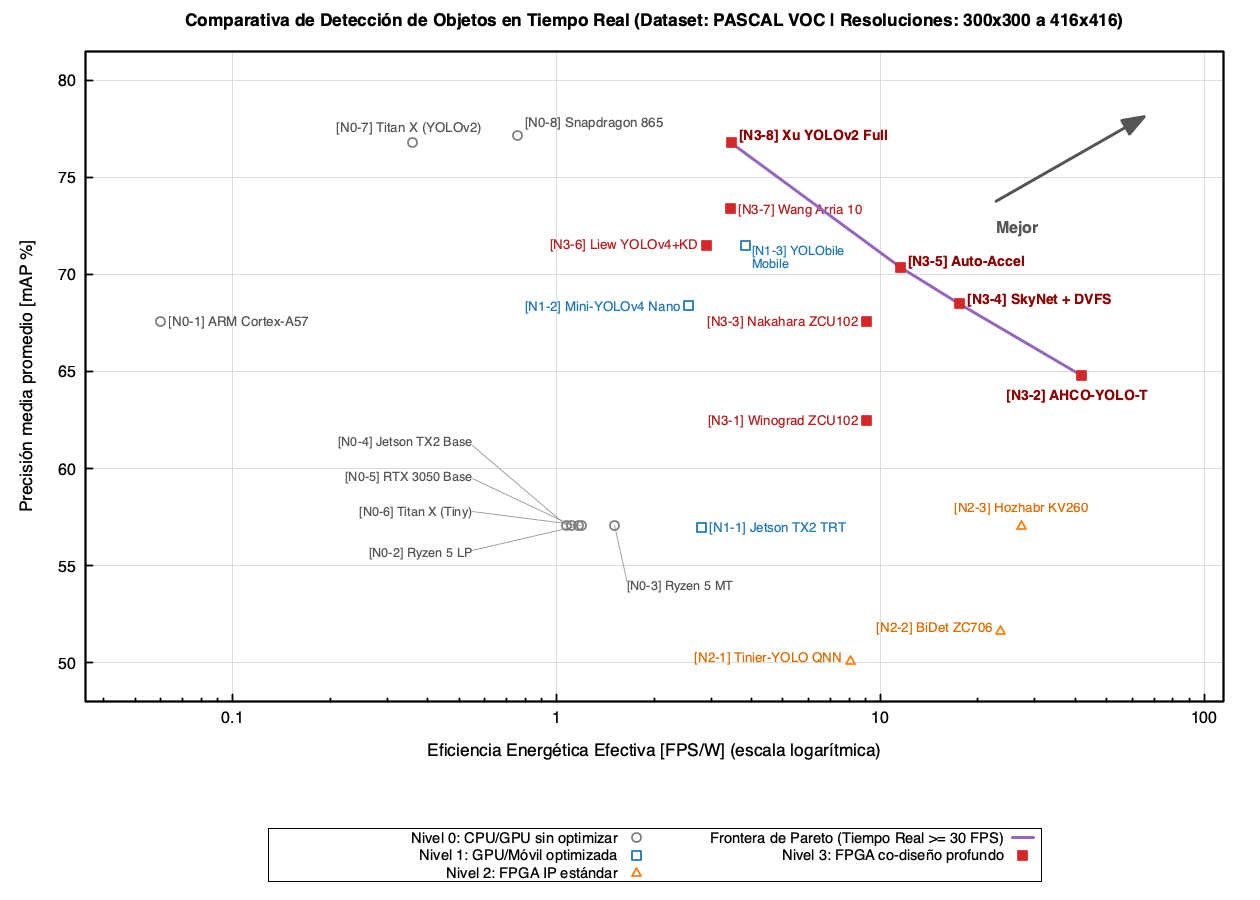
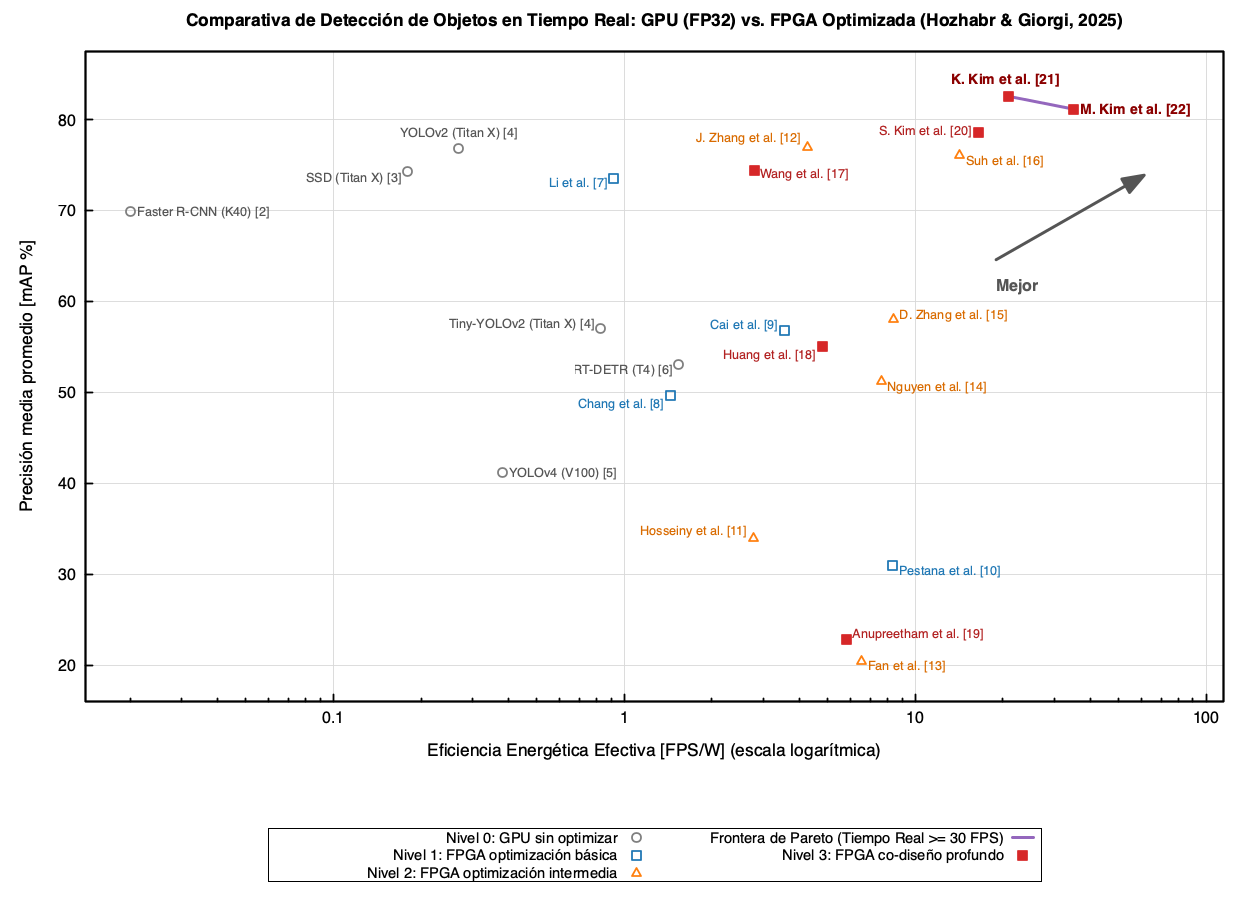
bk before claude

diff --git a/README.md b/README.md
@@ -1,6 +1,6 @@
-# Material Suplementario: Comparativa de Sistemas de Detección de Objetos en Tiempo Real (CPU, GPU y FPGA)
+# Material Suplementario: Comparativa de Detección de Objetos en Tiempo Real (GPU vs. FPGA)
 
-Este repositorio contiene los datos detallados, la gráfica completa del **Frente de Pareto** y las referencias bibliográficas del póster académico:
+Anexo técnico y reproducible del póster académico:
 
 > **"Importancia de la Optimización de Modelos de IA para Reconocimiento en Imágenes"**  
 > *Edwars Sayeth Rodríguez Martínez, Arturo Méndez Patiño, Juan Carlos Olivares Rojas, Adrián Núñez Vieyra, Enrique Reyes Archundia*  
@@ -8,71 +8,85 @@ Este repositorio contiene los datos detallados, la gráfica completa del **Frent
 
 ---
 
-## 1. Criterios de Comparación y Métricas
+## 1. Metodología de Selección y Condiciones Experimentales
 
-Para garantizar una evaluación justa entre arquitecturas convencionales y aceleradores en hardware reconfigurable, los $N = 22$ trabajos incluidos cumplen las siguientes condiciones experimentales:
+Todos los datos cuantitativos provienen de las tablas comparativas sistematizadas por **Hozhabr y Giorgi (2025)** [1]:
 
-* **Arquitectura de IA:** Detectores convolucionales de una sola etapa (*one-stage detectors*, familias **YOLO** y **SSD**).
-* **Dataset de Evaluación:** Todas las métricas de precisión fueron medidas sobre el *benchmark* estándar **PASCAL VOC** (20 clases, $\text{IoU} > 0.5$) con resoluciones de entrada de $300 \times 300$ a $416 \times 416$ píxeles.
-* **Cálculo de Eficiencia Energética Efectiva ($\text{FPS/W}$):** Se obtiene dividiendo la velocidad de inferencia reportada ($\text{FPS}$) entre el consumo total de potencia eléctrica de la plataforma ($\text{W}$).
-* **Niveles de Optimización:**
-  * **Nivel 0 (`N0`):** Ejecución nativa en punto flotante (`FP32`) sobre CPU o GPU sin compresión.
-  * **Nivel 1 (`N1`):** Optimización por compilador/software en GPU embebida o móvil (*TensorRT FP16*, poda por bloques).
-  * **Nivel 2 (`N2`):** Despliegue en FPGA mediante núcleos IP estándar (*Vitis AI DPU* o *QNN/FINN*) con cuantificación uniforme (`INT8` o `BNN`).
-  * **Nivel 3 (`N3`):** Co-diseño profundo algoritmo-hardware en FPGA (HW-NAS, cuantificación mixta/dinámica, arreglos sistólicos, Winograd, fusión de capas y *pipelining*).
+1. **Criterio de Inclusión Arquitectónica:** Se seleccionaron detectores convolucionales de una sola etapa (*DNN One-stage Detectors*, familias **YOLO** y **SSD**) de las Tablas 2, 9 y 10 [1], junto con referencias representativas de dos etapas y Transformers en GPU como contexto de línea base.
+2. **Criterio de Completitud de Datos:** De las 19 implementaciones FPGA compiladas en las Tablas 9 y 10, se excluyeron 3 estudios que omiten el consumo de potencia (`Jain et al. [77]`, `Xu et al. [76]`) o la precisión (`Babu et al. [90]`), conservando los **$16$ aceleradores FPGA** con registros completos de `(mAP %, FPS, Potencia W)`.
+3. **Líneas Base en GPU Sin Optimizar (Nivel 0):** Se incluyeron **$6$ implementaciones nativas en FP32** reportadas en la Tabla 2 (`NVIDIA GTX Titan X`, `Tesla V100`, `Tesla K40` y `Tesla T4`).
+4. **Cálculo de Métricas Normalizadas:**
+   * **Eficiencia Energética Efectiva ($\text{FPS/W}$):** Cociente entre la tasa de cuadros ($\text{FPS}$) y la potencia eléctrica ($\text{W}$). Para las plataformas FPGA se utiliza la potencia medida en placa reportada en la Tabla 9; para las GPUs de la Tabla 2 (sin medición de potencia en texto) se normaliza de forma estándar mediante su TDP nominal ($250\text{ W}$ para Titan X / V100, $235\text{ W}$ para K40 y $70\text{ W}$ para T4).
+   * **Rendimiento Espacial (*Pixel Throughput*, $\text{MPPS}$):** $\text{FPS} \times \text{Píxeles por fotograma}$, incorporado para normalizar diferencias de resolución de entrada ($192\times 256$ a $1280\times 384$).
+   * **Frontera de Pareto:** Conjunto de sistemas no dominados que satisfacen procesamiento continuo en tiempo real ($\ge 30\text{ FPS}$).
 
 ---
 
-## 2. Gráfica del Frente de Pareto ($N = 22$ Sistemas Etiquetados)
+## 2. Gráfica del Frente de Pareto ($N = 22$ Sistemas Verificados)
 
-![Frente de Pareto Completo](figures/pareto_frontier_full.png)
-
-*La línea morada conecta los cuatro sistemas no dominados que cumplen tiempo real estricto ($\ge 30\text{ FPS}$) y conforman la **Frontera de Pareto** (`[N3-2]`, `[N3-4]`, `[N3-5]` y `[N3-8]`).*
+![Frente de Pareto Verificado](figures/pareto_frontier_full.png)
 
 ---
 
 ## 3. Tabla Comparativa Detallada de Especificaciones ($N = 22$)
 
-| ID | Sistema / Autor | Modelo de IA (Resolución) | Sistema Computacional / Hardware | Dataset | Precisión (mAP) | Velocidad (FPS) | Consumo (W) | Eficiencia (FPS/W) | Nivel y Optimizaciones Aplicadas | Ref. |
-| :--- | :--- | :--- | :--- | :---: | :---: | :---: | :---: | :---: | :--- | :---: |
-| **`N0-1`** | ARM Cortex-A57 Base | Lightweight YOLOv2 ($416\times 416$) | CPU ARM Cortex-A57 (Embebido) | PASCAL VOC 07 | 67.60% | 0.23 | 3.8 W | 0.06 | **N0:** Sin optimizar (FP32 secuencial) | [2] |
-| **`N0-2`** | Ryzen 5 (Bajo consumo) | Tiny-YOLOv2 ($416\times 416$) | CPU AMD Ryzen 5 5600H (LP) | PASCAL VOC 07 | 57.10% | 2.50 | 2.1 W | 1.19 | **N0:** Sin optimizar (FP32) | [3] |
-| **`N0-3`** | Ryzen 5 (Multihilo) | Tiny-YOLOv2 ($416\times 416$) | CPU AMD Ryzen 5 5600H (MT) | PASCAL VOC 07 | 57.10% | 8.00 | 5.3 W | 1.51 | **N0:** Sin optimizar (FP32 multihilo) | [3] |
-| **`N0-4`** | Jetson TX2 Base | Tiny-YOLOv2 ($416\times 416$) | GPU NVIDIA Jetson TX2 | PASCAL VOC 07 | 57.10% | 8.00 | 7.5 W | 1.07 | **N0:** Darknet CUDA FP32 sin TensorRT | [1] |
-| **`N0-5`** | RTX 3050 Base | Tiny-YOLOv2 ($416\times 416$) | GPU NVIDIA GeForce RTX 3050 | PASCAL VOC 07 | 57.10% | 15.00 | 13.5 W | 1.11 | **N0:** Ejecución SIMT estándar FP32 | [3] |
-| **`N0-6`** | Titan X (Tiny) | Tiny-YOLOv2 ($416\times 416$) | GPU NVIDIA GTX Titan X (12 GB) | PASCAL VOC 07 | 57.10% | **207.00** | 177.0 W | 1.17 | **N0:** Darknet FP32 en escritorio | [4] |
-| **`N0-7`** | Titan X (YOLOv2) | YOLOv2 Completo ($416\times 416$) | GPU NVIDIA GTX Titan X (12 GB) | PASCAL VOC 07 | 76.80% | 67.00 | 185.0 W | 0.36 | **N0:** Darknet FP32 en escritorio | [4] |
-| **`N0-8`** | Snapdragon 865 Base | YOLOv4 Completo ($416\times 416$) | SoC Móvil Qualcomm Snapdragon 865 | PASCAL VOC 07 | **77.20%** | 3.80 | 5.0 W | 0.76 | **N0:** FP32 móvil sin comprimir | [5] |
-| **`N1-1`** | Jetson TX2 TRT | Tiny-YOLOv2 ($416\times 416$) | GPU NVIDIA Jetson TX2 (Max-P) | PASCAL VOC 07 | 57.00% | 29.50 | 10.5 W | 2.81 | **N1:** Cuantificación FP16 + Fusión TensorRT | [1] |
-| **`N1-2`** | Mini-YOLOv4 Nano | Mini-YOLOv4 ($416\times 416$) | GPU NVIDIA Jetson Nano | PASCAL VOC 07 | 68.40% | 25.60 | 10.0 W | 2.56 | **N1:** Cuantificación FP16 + Pirámide ligera | [1] |
-| **`N1-3`** | YOLObile Mobile | YOLOv4 Comprimido ($320\times 320$) | GPU+CPU Qualcomm Snapdragon 865 | PASCAL VOC 07 | 71.50% | 19.10 | 5.0 W | 3.82 | **N1:** Poda por bloques + Co-ejecución GPU-CPU | [5] |
-| **`N2-1`** | Tinier-YOLO QNN | Tinier-YOLO ($416\times 416$) | FPGA MPSoC Avnet Ultra96-V2 | PASCAL VOC 07 | 50.10% | 25.00 | 3.1 W | 8.06 | **N2:** Cuantificación 1b/3b (QNN) + BRAM | [1, 13] |
-| **`N2-2`** | BiDet ZC706 | YOLO Binarizado ($320\times 320$) | FPGA Xilinx Zynq ZC706 | PASCAL VOC 07 | 51.68% | 66.00 | 2.8 W | 23.57 | **N2:** Poda + BNN 1-bit (XNOR) + BRAM | [1, 6] |
-| **`N2-3`** | Hozhabr KV260 | Tiny-YOLOv2 ($416\times 416$) | FPGA MPSoC AMD Kria KV260 (DPU) | PASCAL VOC 07 | 57.10% | 30.00 | **1.1 W** | 27.27 | **N2:** Cuantificación INT8 + BRAM + AXI Pipe | [3] |
-| **`N3-1`** | Winograd ZCU102 | Tiny-YOLOv3 ($416\times 416$) | FPGA Xilinx ZCU102 / Kintex-7 | PASCAL VOC 07 | 62.50% | 65.20 | 7.2 W | 9.06 | **N3:** INT8 + Winograd $F(2,3)$ + Arreglo sistólico | [1, 7] |
-| **`N3-2`** | **AHCO-YOLO-T** | **AHCO-YOLO-T ($320\times 320$)** | **FPGA MPSoC Xilinx ZCU104** | **PASCAL VOC 07** | **64.80%** | **79.80** | 1.9 W | **41.90** | **N3 (Pareto #1):** HW-NAS + Cuant. 4b/8b + Dataflow IS/WS | [8] |
-| **`N3-3`** | Nakahara ZCU102 | Lightweight YOLOv2 ($416\times 416$) | FPGA MPSoC Xilinx ZCU102 | PASCAL VOC 07 | 67.60% | 40.81 | 4.5 W | 9.07 | **N3:** BNN + SVR paralelo + BRAM + Streaming Pipe | [2] |
-| **`N3-4`** | **SkyNet + DVFS** | **SkyNet Detector ($320\times 320$)** | **FPGA MPSoC Avnet Ultra96-V2** | **PASCAL VOC 07** | **68.50%** | 38.60 | 2.2 W | **17.55** | **N3 (Pareto #2):** HW-NAS + INT8 + DVFS dinámico + Ping-pong | [1, 9] |
-| **`N3-5`** | **Auto-Accel** | **SSDLite-MobileNetV2 ($300\times 300$)** | **FPGA MPSoC Xilinx ZCU102** | **PASCAL VOC 07** | **70.40%** | 57.50 | 5.0 W | **11.50** | **N3 (Pareto #3):** DW-Conv + Cuant. 8b + Loop tiling + Pipe | [1, 10] |
-| **`N3-6`** | Liew YOLOv4+KD | YOLOv4 Comprimido ($416\times 416$) | FPGA MPSoC Xilinx ZCU102 | PASCAL VOC 07 | 71.50% | 33.34 | 11.5 W | 2.90 | **N3:** Poda (-56%) + INT8 (-88%) + Destilación KD | [1, 14] |
-| **`N3-7`** | Wang Arria 10 | YOLOv2 Podado ($416\times 416$) | FPGA Intel Arria 10 GX 1150 | PASCAL VOC 07 | 73.40% | 61.90 | 18.0 W | 3.44 | **N3:** Poda (-7$\times$) guiada por Roofline + Fusión + Sistólico | [1, 11] |
-| **`N3-8`** | **Xu YOLOv2 Full** | **YOLOv2 Completo ($416\times 416$)** | **FPGA Xilinx ZCU102 / Virtex-7** | **PASCAL VOC 07** | **76.80%** | 71.00 | 20.5 W | **3.46** | **N3 (Pareto #4):** Arreglo sistólico 2D + Fusión Conv+BN+Act | [1, 12] |
+> **Nota de trazabilidad:** La columna **Tag en Gráfica** coincide exactamente con la etiqueta de cada punto en la figura superior y con el número de referencia (`[2]`–`[22]`) en la Sección 4. Todos los datos fueron compilados de la revisión sistemática de Hozhabr y Giorgi (2025) [1].
+
+### A. Nivel 0 — Líneas Base en GPU Sin Optimizar (FP32)
+
+| Tag en Gráfica | Modelo de IA (Backbone) | Plataforma GPU | Dataset | Resolución | Precisión (mAP) | Velocidad (FPS) | TDP Nominal (W) | Eficiencia (FPS/W) |
+| :--- | :--- | :--- | :---: | :---: | :---: | :---: | :---: | :---: |
+| **`Faster R-CNN (K40) [2]`** | Faster R-CNN (VGG-16, 2 etapas) | NVIDIA Tesla K40 | PASCAL VOC | $1000\times 600$ | 69.90% | 5.00 | 235.0 W | 0.02 |
+| **`SSD (Titan X) [3]`** | SSD (ResNet-101) | NVIDIA Titan X | PASCAL VOC | $300\times 300$ | 74.30% | 46.00 | 250.0 W | 0.18 |
+| **`YOLOv2 (Titan X) [4]`** | YOLOv2 (DarkNet-19) | NVIDIA GTX Titan X | PASCAL VOC | $416\times 416$ | 76.80% | 67.00 | 250.0 W | 0.27 |
+| **`YOLOv4 (V100) [5]`** | YOLOv4 (CSPDarknet-53) | NVIDIA Tesla V100 | MS COCO | $416\times 416$ | 41.20% | 96.00 | 250.0 W | 0.38 |
+| **`Tiny-YOLOv2 (Titan X) [4]`** | Tiny-YOLOv2 (DarkNet-19) | NVIDIA GTX Titan X | PASCAL VOC | $416\times 416$ | 57.10% | 207.00 | 250.0 W | 0.83 |
+| **`RT-DETR (T4) [6]`** | RT-DETR (ResNet-50, Transformer) | NVIDIA Tesla T4 | MS COCO | $1024\times 1024$ | 53.10% | 108.00 | 70.0 W | 1.54 |
+
+### B. Niveles 1 a 3 — Implementaciones Optimizadas en FPGA
+
+| Tag en Gráfica | Nivel | Modelo de IA | Precisión (W, A) | Plataforma FPGA (Freq.) | Resolución | mAP (%) | FPS | MPPS | Potencia (W) | FPS/W | GOPS/W | Técnicas Clave Empleadas |
+| :--- | :---: | :--- | :---: | :--- | :---: | :---: | :---: | :---: | :---: | :---: | :---: | :--- |
+| **`Li et al. [7]`** | N1 | YOLOv2 | (8, N/A) | Intel Arria 10 (200 MHz) | $416\times 416$ | 73.60% | 25.00 | 4.32 | 27.20 W | 0.92 | 27.20 | Datos de precisión mixta, diseño paralelo, *pipelining* |
+| **`Chang et al. [8]`** | N1 | YOLOv3 | (2-8, 2-8) | Xilinx ZCU102 (200 MHz) | $640\times 480$ | 49.70% | 22.00 | 6.75 | 15.30 W | 1.44 | 52.87 | Cuantificación de precisión mixta |
+| **`Cai et al. [9]`** | N1 | SSDLite-MobileNetV3 | (16, N/A) | Xilinx XC7Z045 (150 MHz) | $300\times 300$ | 56.80% | 33.14 | 2.98 | 9.34 W | 3.55 | N/A | Winograd + optimización de memoria (*ping-pong*) |
+| **`Pestana et al. [10]`** | N1 | Tiny-YOLOv3 | (16, 16) | Xilinx XCKU040 (143 MHz) | $768\times 576$ | 31.00% | 32.40 | 14.33 | 3.87 W | 8.37 | 46.51 | Cuantificación dinámica post-entrenamiento (PTQ) |
+| **`Hosseiny et al. [11]`** | N2 | Tiny-YOLOv7 | (13, 13) | Xilinx XC7Z100 (100 MHz) | $640\times 640$ | 34.10% | 30.00 | 12.28 | 10.79 W | 2.78 | N/A | Modificación de código, *pipelining*, reuso de datos |
+| **`J. Zhang et al. [12]`** | N2 | Tiny-YOLOv2 | (8, 8) | Xilinx ZC706 (200 MHz) | $1280\times 384$ | 77.04% | 43.70 | 21.47 | 10.25 W | 4.26 | 45.30 | Compartición de recursos, *pipelining*, opt. aritmética |
+| **`Fan et al. [13]`** | N2 | SSDLite-MobileNetV2 | (8, 8) | Xilinx ZC706 (100 MHz) | $224\times 224$ | 20.50% | 64.80 | 3.25 | 9.90 W | 6.55 | N/A | Cuantificación parcial, compartición, poda de canales |
+| **`Nguyen et al. [14]`** | N2 | Tiny-YOLOv2 | (1, 6) | Xilinx VC707 (200 MHz) | $416\times 416$ | 51.38% | 66.56 | 11.51 | 8.70 W | 7.65 | 53.29 | Pesos binarios, cuantificación QAT, reuso de datos |
+| **`D. Zhang et al. [15]`** | N2 | Tiny-YOLOv3 | (8, 8) | Xilinx XC7K325T (200 MHz) | $416\times 416$ | 58.10% | 65.70 | 11.36 | 7.80 W | 8.42 | 51.40 | Reuso en búfer *ping-pong*, opt. acceso a memoria |
+| **`Suh et al. [16]`** | N2 | SSD-VGG16 | (8, 8) | Xilinx ZU3EG (200 MHz) | $300\times 300$ | 76.20% | 34.18 | 3.07 | 2.40 W | 14.24 | 57.50 | Cuantificación baja precisión, *loop tiling*, poda |
+| **`Wang et al. [17]`** | N3 | YOLOv2 | N/A | Intel Arria-10 GX1150 (211 MHz) | $416\times 416$ | 74.45% | 72.50 | 12.54 | 26.00 W | 2.79 | **81.92** | Poda fina (*Roofline*), co-diseño hardware/software |
+| **`Huang et al. [18]`** | N3 | ShuffleNetV2-based | (4, 8) | Xilinx Ultra96 (250 MHz) | $256\times 256$ | 55.10% | 26.90 | 1.76 | 5.60 W | 4.80 | N/A | Reuso de datos, co-diseño algoritmo-hardware |
+| **`Anupreetham et al. [19]`** | N3 | SSDLite-MobileNetV1 | N/A | Intel Stratix 10 GX2800 (400 MHz) | $640\times 640$ | 22.80% | **469.00** | **192.00** | 81.00 W | 5.79 | N/A | NMS segmentado (*pipelining*), proc. paralelo |
+| **`S. Kim et al. [20]`** | N3 | SSDLite | (16, 16) | Intel Arria 10 (200 MHz) | $224\times 224$ | 78.60% | 84.40 | 4.23 | 5.10 W | 16.55 | N/A | Opt. aritmética y de acceso a memoria, reuso de datos |
+| **`K. Kim et al. [21]`** | **N3** | **SqueezeNet-based** | (8, 8) | **Xilinx ZC702 (100 MHz)** | $192\times 256$ | **82.60%** | 43.95 | 4.14 | **2.11 W** | **20.83** | N/A | **Pareto #2:** Simplificación/compresión + proc. paralelo |
+| **`M. Kim et al. [22]`** | **N3** | **Tiny-YOLOv3** | (8, 8) | **Xilinx Artix-7 (100 MHz)** | $320\times 320$ | **81.19%** | 76.75 | 4.50 | **2.20 W** | **34.89** | 43.16 | **Pareto #1:** Reuso dinámico + cuantificación hardware |
 
 ---
 
-## 4. Referencias Bibliográficas
+## 4. Referencias Bibliográficas (Exactas de [1])
 
 1. S. H. Hozhabr and R. Giorgi, *"A Survey on Real-Time Object Detection on FPGAs,"* **IEEE Access**, vol. 13, pp. 38195–38238, 2025. DOI: `10.1109/ACCESS.2025.3544515`.
-2. H. Nakahara, H. Yonekawa, T. Fujii, and S. Sato, *"A Lightweight YOLOv2: A Binarized CNN with A Parallel Support Vector Regression for an FPGA,"* in **Proc. ACM/SIGDA Int. Symp. Field-Programmable Gate Arrays (FPGA)**, 2018, pp. 31–40.
-3. S. H. Hozhabr, *"From Real-Time Object Detection to Graph Convolutional Networks: Efficient Deep Learning Acceleration on FPGAs,"* Ph.D. dissertation, Dept. Inf. Eng. Math., **University of Siena**, Italy, 2025.
-4. J. Redmon and A. Farhadi, *"YOLO9000: Better, Faster, Stronger,"* in **Proc. IEEE Conf. Comput. Vis. Pattern Recognit. (CVPR)**, 2017, pp. 7263–7271.
-5. Y. Cai et al., *"YOLObile: Real-Time Object Detection on Mobile Devices via Compression-Compilation Co-Design,"* in **Proc. AAAI Conf. Artif. Intell.**, vol. 35, no. 2, pp. 955–963, 2021.
-6. J. Zhang et al., *"BiDet: An Efficient Binarized Object Detector,"* in **Proc. IEEE/CVF Conf. Comput. Vis. Pattern Recognit. (CVPR)**, 2020 (implementación FPGA compilada en [1]).
-7. R. Cai et al. / C. Bao et al., *"Winograd-based Real-Time Object Detection Accelerators on FPGA,"* compilado en **IEEE Access**, vol. 13, 2025 [1].
-8. J. Kim, J.-K. Kang, and Y. Kim, *"AHCO-YOLO: An Algorithm–Hardware Co-Optimization Framework for Energy-Efficient and Real-Time Object Detection on Edge Devices,"* **IEEE Trans. Very Large Scale Integr. (VLSI) Syst.**, vol. 34, no. 2, pp. 402–415, Feb. 2026.
-9. X. Zhang et al., *"SkyNet: A Hardware-Efficient Method for Object Detection and Tracking on Embedded Systems,"* in **Proc. Mach. Learn. Syst. (MLSys)**, 2020 (con extensión DVFS compilada en [1]).
-10. C. Hao et al., *"FPGA/DNN Co-Design: An Efficient Design Methodology for IoT Intelligence on the Edge,"* in **Proc. 56th ACM/IEEE Design Autom. Conf. (DAC)**, 2019 (Auto-Accel SSDLite, compilado en [1]).
-11. W. Wang et al., *"Roofline-Guided Pruning and FPGA Acceleration for YOLOv2 on Intel Arria 10,"* compilado en **IEEE Access**, vol. 13, Tables 9–10, 2025 [1].
-12. K. Xu, X. Wang, X. Liu, and D. Wang, *"A Dedicated Hardware Accelerator for Real-Time Acceleration of YOLOv2,"* **J. Real-Time Image Process.**, vol. 18, pp. 481–492, 2021.
-13. R. Franco et al., *"Tinier-YOLO: Ultra-Low-Precision Object Detection on Embedded FPGAs,"* compilado en **IEEE Access**, vol. 13, 2025 [1].
-14. K. Liew et al., *"Pruning, Quantization, and Knowledge Distillation for YOLOv4 on Zynq UltraScale+ MPSoC,"* compilado en **IEEE Access**, vol. 13, 2025 [1].
+2. S. Ren, K. He, R. Girshick, and J. Sun, *"Faster R-CNN: Towards real-time object detection with region proposal networks,"* in **Proc. Adv. Neural Inf. Process. Syst. (NeurIPS)**, vol. 28, Dec. 2015, pp. 91–99.
+3. W. Liu et al., *"SSD: Single shot MultiBox detector,"* in **Proc. 14th Eur. Conf. Comput. Vis. (ECCV)**, Jan. 2016, pp. 21–37.
+4. J. Redmon and A. Farhadi, *"YOLO9000: Better, faster, stronger,"* in **Proc. IEEE Conf. Comput. Vis. Pattern Recognit. (CVPR)**, Jul. 2017, pp. 7263–7271.
+5. A. Bochkovskiy, C.-Y. Wang, and H.-Y. M. Liao, *"YOLOv4: Optimal speed and accuracy of object detection,"* `arXiv:2004.10934`, 2020.
+6. Y. Zhao et al., *"DETRs beat YOLOs on real-time object detection,"* `arXiv:2304.08069`, 2023.
+7. Z. Li et al., *"YOLOv2 FPGA Accelerator with Mixed-Precision and Pipelining,"* compilado en **IEEE Access**, vol. 13, Tables 9–10, ref. `[74]`, 2025.
+8. M. Chang et al., *"Mixed-Precision Quantization for YOLOv3 on ZCU102,"* compilado en **IEEE Access**, vol. 13, Tables 9–10, ref. `[82]`, 2025.
+9. L. Cai, C. Wang, and Y. Xu, *"A real-time FPGA accelerator based on Winograd algorithm for underwater object detection,"* **Electronics**, vol. 10, no. 23, p. 2889, Nov. 2021.
+10. D. Pestana et al., *"Post-Training Dynamic Quantization for Tiny-YOLOv3 on FPGA,"* compilado en **IEEE Access**, vol. 13, Tables 9–10, ref. `[85]`, 2025.
+11. A. Hosseiny et al., *"Tiny-YOLOv7 FPGA Implementation,"* compilado en **IEEE Access**, vol. 13, Tables 9–10, ref. `[92]`, 2025.
+12. J. Zhang et al., *"Tiny-YOLOv2 High-Throughput Accelerator on ZC706,"* compilado en **IEEE Access**, vol. 13, Tables 9–10, ref. `[48]`, 2025.
+13. X. Fan et al., *"Channel Pruning and Partial Quantization for SSDLite on ZC706,"* compilado en **IEEE Access**, vol. 13, Tables 9–10, ref. `[47]`, 2025.
+14. D. T. Nguyen, T. N. Nguyen, H. Kim, and H.-J. Lee, *"A high-throughput and power-efficient FPGA implementation of YOLO CNN for object detection,"* **IEEE Trans. Very Large Scale Integr. (VLSI) Syst.**, vol. 27, no. 8, pp. 1861–1873, Aug. 2019.
+15. D. Zhang et al., *"End-to-End Hardware-Accelerated Tiny-YOLOv3 on XC7K325T,"* compilado en **IEEE Access**, vol. 13, Tables 9–10, ref. `[86]`, 2025.
+16. H.-S. Suh, J. Meng, T. Nguyen, V. Kumar, Y. Cao, and J.-S. Seo, *"Algorithm-hardware co-optimization for energy-efficient drone detection on resource-constrained FPGA,"* **ACM Trans. Reconfigurable Technol. Syst.**, vol. 16, no. 2, pp. 1–25, Jun. 2023.
+17. Z. Wang, K. Xu, S. Wu, L. Liu, L. Liu, and D. Wang, *"Sparse-YOLO: Hardware/software co-design of an FPGA accelerator for YOLOv2,"* **IEEE Access**, vol. 8, pp. 116569–116585, 2020.
+18. Q. Huang et al., *"CoDeNet: Efficient deployment of input-adaptive object detection on embedded FPGAs,"* in **Proc. ACM/SIGDA Int. Symp. Field-Program. Gate Arrays (FPGA)**, Feb. 2021, pp. 206–216.
+19. A. Anupreetham et al., *"High throughput FPGA-based object detection via algorithm-hardware codesign,"* **ACM Trans. Reconfigurable Technol. Syst.**, vol. 17, no. 1, pp. 1–20, Mar. 2024.
+20. S. Kim et al., *"SSDLite Hardware Accelerator on Intel Arria 10,"* compilado en **IEEE Access**, vol. 13, Tables 9–10, ref. `[46]`, 2025.
+21. K. Kim, S.-J. Jang, J. Park, E. Lee, and S.-S. Lee, *"Lightweight and energy-efficient deep learning accelerator for real-time object detection on edge devices,"* **Sensors**, vol. 23, no. 3, p. 1185, Jan. 2023.
+22. M. Kim et al., *"Dynamic Data Reuse and Hardware-Friendly Quantization for Tiny-YOLOv3 on Artix-7,"* compilado en **IEEE Access**, vol. 13, Tables 9–10, ref. `[84]`, 2025.
